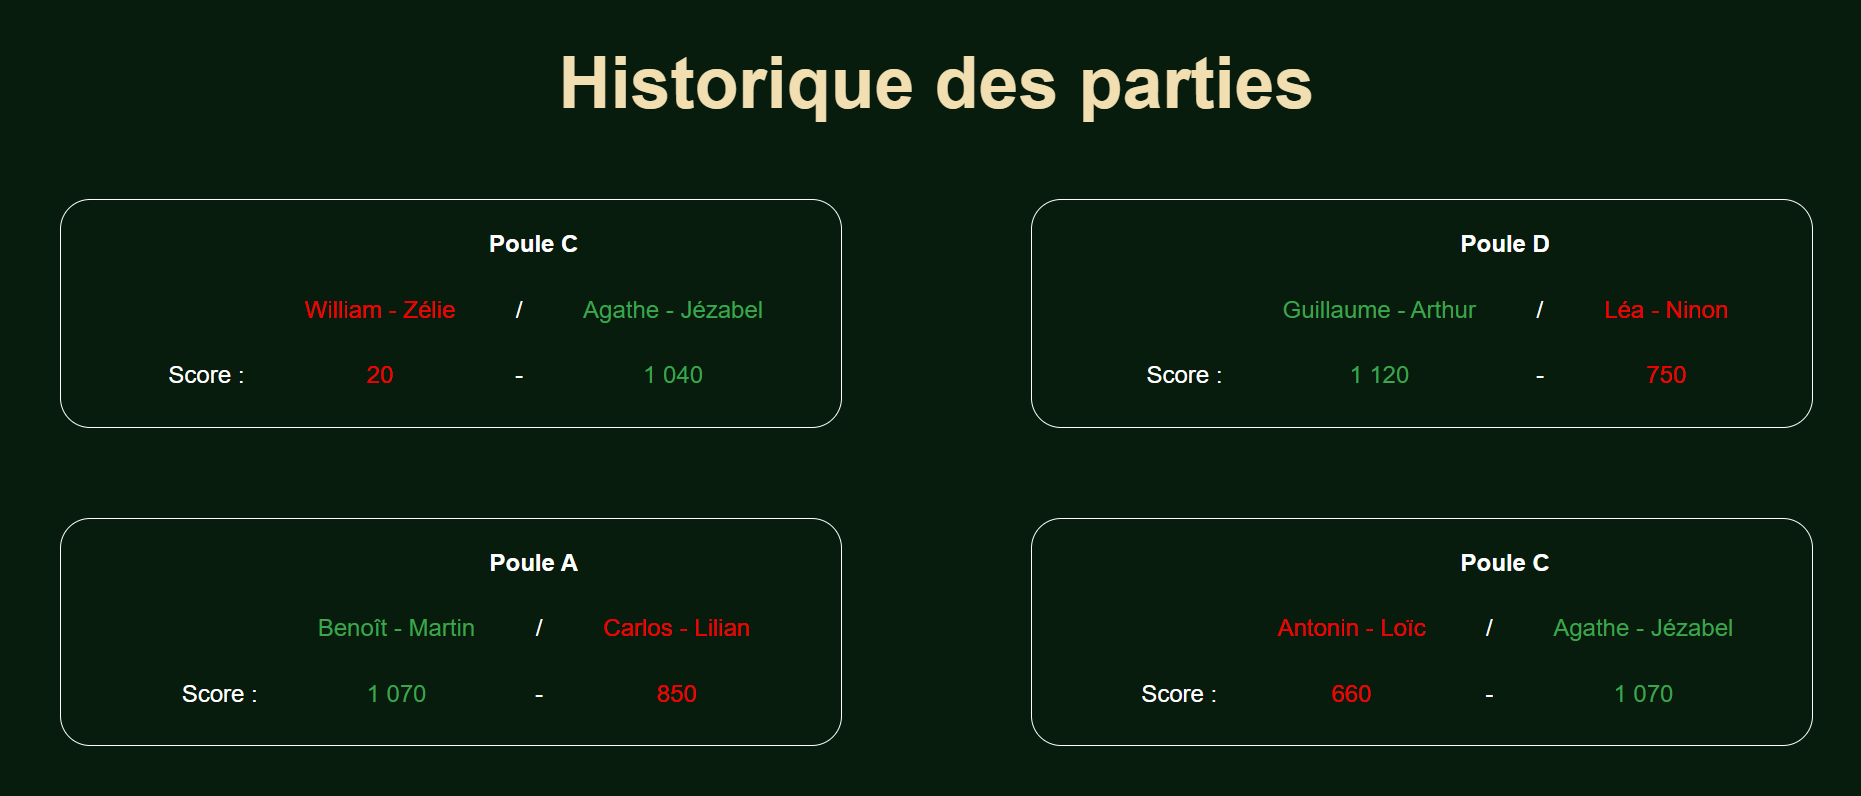
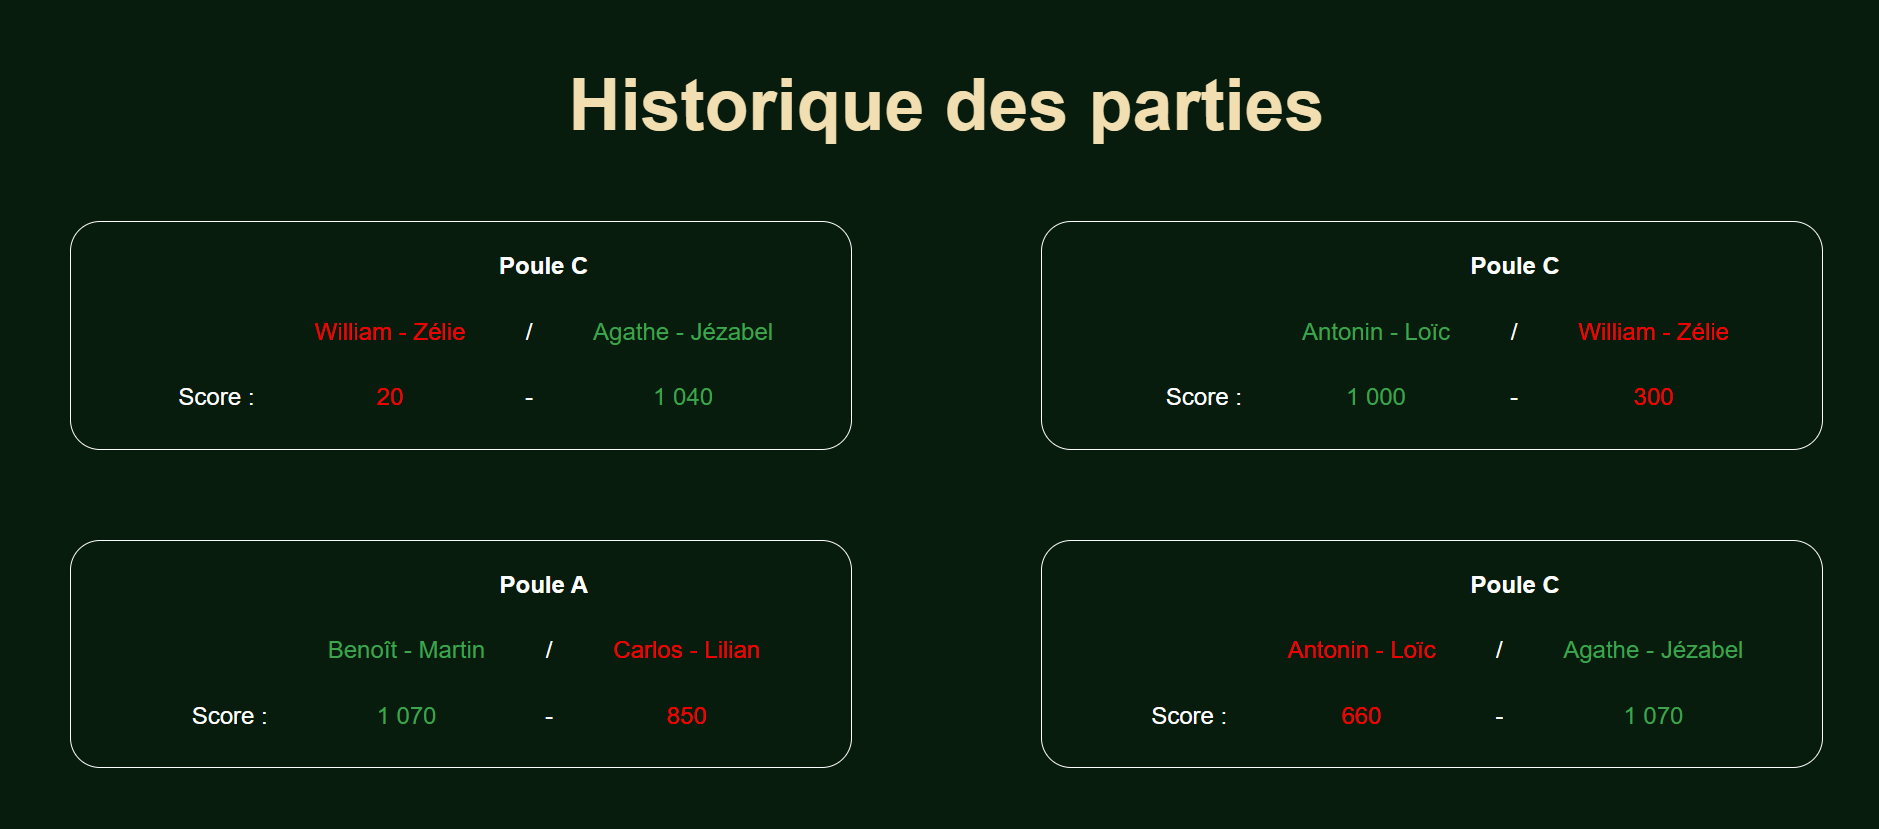
Update Parties William le nul

diff --git a/Ouzoulias-Nicolas/pok/temps-1/index.md b/Ouzoulias-Nicolas/pok/temps-1/index.md
@@ -440,15 +440,15 @@ table,th {
                     </thead>
                     <tr>
                         <td> </td>
-                        <td class="vic"> Guillaume - Arthur</td>
+                        <td class="vic"> Antonin - Loïc</td>
                         <td> / </td>
-                        <td class="def"> Léa - Ninon</td>
+                        <td class="def"> William - Zélie</td>
                     </tr>
                     <tr>
                         <td> Score : </td>
-                        <td class="vic"> 1 120 </td>
+                        <td class="vic"> 1 000 </td>
                         <td> - </td>
-                        <td class="def"> 750 </td>
+                        <td class="def"> 300 </td>
                     </tr>
                 </table>
             </div>
